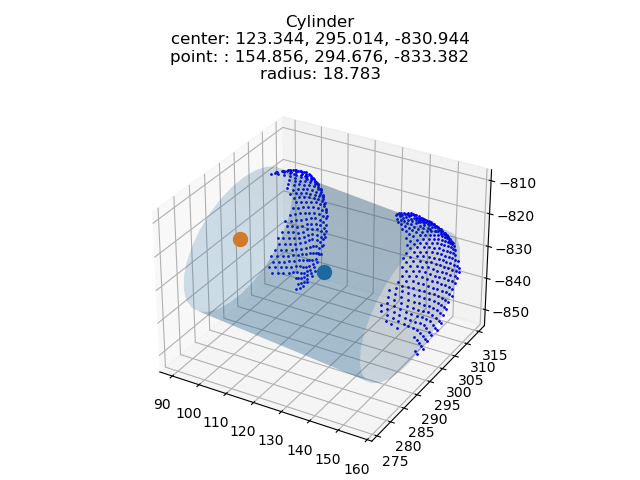
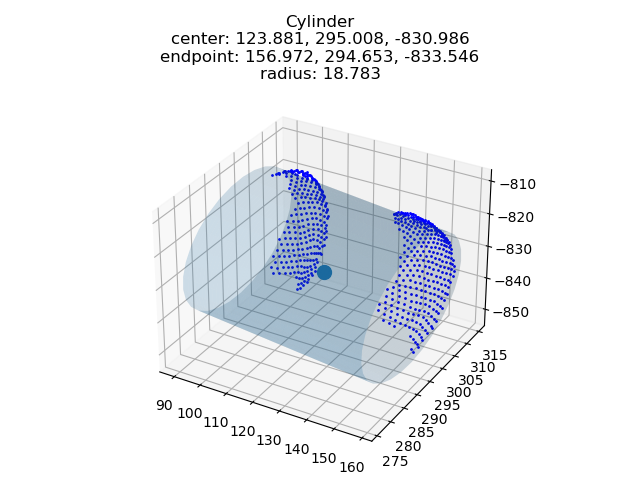
fixed issued related to cylinder
change optimization from least_squares to minimize
better estimation of center and endpoints by using distance matrix

diff --git a/fit_cylinder.py b/fit_cylinder.py
@@ -1,54 +1,83 @@
 import pymeshlab
-from scipy.optimize import least_squares
+from scipy.optimize import least_squares, minimize
 import numpy as np
+from scipy.spatial.distance import cdist
 
-# USEFUL HINTS:
+# USEFUL LINKS:
 # https://stackoverflow.com/questions/61341712/calculate-projected-point-location-x-y-on-given-line-startx-y-endx-y
 # https://stackoverflow.com/questions/39840030/distance-between-point-and-a-line-from-two-points
+# https://stackoverflow.com/questions/31667070/max-distance-between-2-points-in-a-data-set-and-identifying-the-points
 
 plot = True
 
 ms = pymeshlab.MeshSet()
+# ms.load_new_mesh('talartrochlea.stl')
 ms.load_new_mesh('epicondyle_r.stl')
 m = ms.current_mesh()
 points = m.vertex_matrix()
 
-endPointMin = np.min(points,axis=0)
-endPointMax = np.max(points,axis=0)
-center0 = np.mean((endPointMax,endPointMin),axis=0)
-radius0 = np.linalg.norm(endPointMax-endPointMin, ord=2) * 0.5 # diameter/2
-init = np.hstack((endPointMin, endPointMax, radius0)) # [1,7]
-lb = np.ones(7) * -np.inf
-ub = np.ones(7) * +np.inf
+row,_ = np.shape(points)
 
-def cylinderResiduals(parameters):
-    p1 = parameters[0:3] # first 3D point
-    p2 = parameters[3:6] # second 3D point
-    radius = parameters[6]
+endPoint10 = np.min(points,axis=0)
+endPoint20 = np.max(points,axis=0)
+radius0 = np.linalg.norm(endPoint20-endPoint10, ord=2)# diameter/2
 
-    v1 = p1-p2 # 1D (vector) axis of the cylinder
-    v2 = points-p1 # 2D vector between points and the cylinder axis
-    v3 = np.cross(v1,v2) # 2D perpendicular vector
-    closetstDist = np.linalg.norm(v3, axis=1)/ np.linalg.norm(v1) # perpendicular distance to axis
-    return closetstDist - radius
+init = np.hstack((endPoint10, endPoint20, radius0)) # [1,7]
+# lb = np.ones(7) * -np.inf #  no need to define bounds
+# ub = np.ones(7) * +np.inf
 
-out = least_squares(cylinderResiduals, init, bounds=(lb,ub), method='trf', jac='3-point')['x']
-
-radius = out[-1]
 
 def projectPointOnLine(a, b, p):
     ap = p - a
     ab = b - a
     return a + np.dot(ap, ab) / np.dot(ab, ab) * ab
 
-center = projectPointOnLine(out[:3], out[3:6], center0)
-p1 = projectPointOnLine(out[:3], out[3:6], endPointMin)
-p2 = projectPointOnLine(out[:3], out[3:6], endPointMax)
+def cylinderResiduals(parameters):
+    p1 = parameters[0:3] # first 3D point
+    p2 = parameters[3:6] # second 3D point
+    radius = parameters[6]
+    v1 = p1-p2 # 1D (vector) axis of the cylinder
+    v2 = points-p1 # 2D vector between points and the cylinder axis
+    v3 = np.cross(v1,v2) #
+    dist = np.linalg.norm(v3, axis=1)/ np.linalg.norm(v1) # perpendicular distance to axis
+    return np.sum((dist-radius)**2) # sum of squared diferences
+    # return dist-radius
 
-with open('nodes.txt', mode='w') as f:
-    f.write(f'center,{center[0]},{center[1]},{center[2]}\n')
-    f.write(f'endPoint1,{p1[0]},{p1[1]},{p1[2]}\n')
-    f.write(f'endPoint2,{p2[0]},{p2[1]},{p2[2]}\n')
+out = minimize(cylinderResiduals, init)['x'] #
+# out = least_squares(cylinderResiduals, init)['x'] # , ftol=1e-8, method='trf', jac='3-point'
+
+p1 = out[:3]
+p2 = out[3:6]
+radius = out[6]
+
+# project all points to the cylinder axis
+points2 = np.empty_like(points)
+for i in range(points.shape[0]):
+    points2[i,:] = projectPointOnLine(p1, p2, points[i,:])
+
+# using distance matrix to find the end points (slow solution)
+# a = np.where(squareform(pdist(points2)) == squareform(pdist(points2)).max())[0]
+a = np.where(cdist(points2,points2) == cdist(points2,points2).max())[0]
+endPoint1 = points2[a[0],:]
+endPoint2 = points2[a[1],:]
+center = np.mean((endPoint1,endPoint2), axis=0)
+
+
+# dist = np.empty(row)
+# for i in range(row):
+#     dist[i] = np.linalg.norm(center-points2[i,:])
+# endPoint = points2[np.argmax(dist),:]
+
+# v = p1-p2 # 1D (vector) axis of the cylinder
+# u = v/np.linalg.norm(v)
+# R.from_rotvec(u)
+
+
+
+# with open('nodes.txt', mode='w') as f:
+#     f.write(f'center,{center[0]},{center[1]},{center[2]}\n')
+#     f.write(f'endPoint1,{endPoint1[0]},{endPoint1[1]},{endPoint1[2]}\n')
+#     f.write(f'endPoint2,{endPoint2[0]},{endPoint2[1]},{endPoint2[2]}\n')
 
 if plot:
     import matplotlib.pyplot as plt
@@ -57,20 +86,25 @@ if plot:
     matplotlib.use('TKAgg')
     from skspatial.objects import Cylinder, Point, Points
 
-    cylinder = Cylinder(p1, p2-p1, radius)
-    point = Point(center)
-    pointData = Points(points)
+    cylinder = Cylinder(endPoint1, endPoint2-endPoint1, radius)
     center = np.round(center, 3)
     radius = np.round(radius, 3)
-    p2     = np.round(p2    , 3)
+    endPoint1 = np.round(endPoint1, 3)
+    endPoint2 = np.round(endPoint2, 3)
 
     plt.close('all')
     fig = plt.figure(tight_layout=True)
     ax = fig.add_subplot(projection='3d')
-    pointData.plot_3d(ax, c='b', s=1, depthshade=False)
-    point.plot_3d(ax, s=100)
+    # ax.view_init=(60, 60)
+    Points(points).plot_3d(ax, c='b', s=1, depthshade=False)
+    # Points(points2).plot_3d(ax, c='r', s=1, depthshade=False)
+
+    Point(center).plot_3d(ax, s=100)
+    # Point(endPoint1).plot_3d(ax, s=100)
+    # Point(endPoint2).plot_3d(ax, s=100)
+
     cylinder.plot_3d(ax, alpha=0.2)
-    cylinder.point.plot_3d(ax, s=100)
-    plt.title(f'Cylinder\ncenter: {center[0]}, {center[1]}, {center[2]}\npoint: : {p2[0]}, {p2[1]}, {p2[2]}\nradius: {radius}')
+    # cylinder.point.plot_3d(ax, s=100)
+    plt.title(f'Cylinder\ncenter: {center[0]}, {center[1]}, {center[2]}\nendpoint: {endPoint1[0]}, {endPoint1[1]}, {endPoint1[2]}\nradius: {radius}')
     plt.savefig('fittedCylinder.png')
     plt.show(block=False)

diff --git a/README.md b/README.md
@@ -3,3 +3,4 @@
 
 ![sample](./fittedSphere.png)
 ![sample](./fittedCylinder.png)
+![sample](./fittedCylinder1.png)
